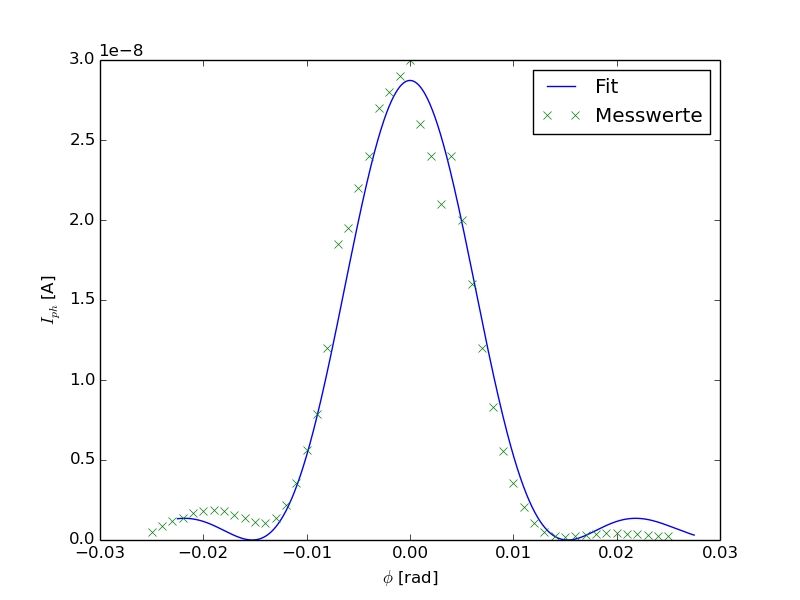
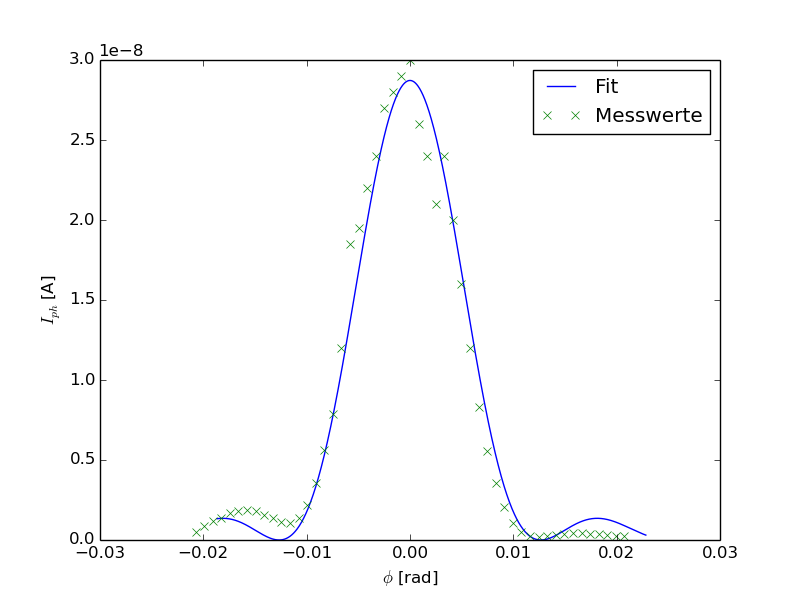
tabellen fehlen noch

diff --git a/protokoll406.tex b/protokoll406.tex
@@ -14,6 +14,7 @@
 \usepackage{selinput}
 \usepackage[separate-uncertainty=true]{siunitx}
 \usepackage{booktabs}
+
 \sisetup{}
 \SelectInputMappings{%
 adieresis={ä},
@@ -81,11 +82,93 @@ Einzelspalt B & 3.8  &1.34e-4 &&\\
 Doppelspalt   & 4.6  & 1.63e-4&20.8&7.35e-4\\
 \bottomrule
 \end{tabular}
+\caption{Ergebnisse der Mikroskopischen Untersuchung}
 \end{table}
 
 
-\subsection{Beungungsmuster am Einzelspalt}
+\subsection{Beugungsmuster am Einzelspalt}
+
+Die an den Einzelspalten gemessenen Werte befinden sich in Tabelle 2. Von diesen Stromstärken muss noch der so genannte thermische Dunkelstrom 
+\[
+I_D = \SI{}{\nano\ampere}
+\]
+abgezogen werden. Um die Messwerte mit der Theorie vergleichen zu können, werden die gemessenen Strecken $x$ um die Position des 0. Maximums zentriert und in einen Winkel $\phi$ umgerechnet. Dabei gilt der Zusammenhang
+\[
+\varphi \approx \frac{x-x_0}{L}
+\] 
+Der Abstand zwischen Schirm und Beugungsebene beträgt
+\[
+L = \SI{}{\meter} \mathrm{.}
+\]
+Diese Winkel und die korrigierten Stromstärken befinden sich ebenfalls in Tabelle 2. Die Abbildungen \ref{plot0} und  \ref{plot1} zeigen den Photostrom in Abhängigkeit von $\varphi$.
+\begin{figure}[h]
+\centering
+\includegraphics[scale=0.8]{plot0.png}
+\caption{Beugungsmuster des Einzelspalts A ($b \approx \SI{}{\milli\meter}$)}
+\label{plot0}
+\end{figure}
+
+\begin{figure}[h]
+\centering
+\includegraphics[scale=0.8]{plot1.png}
+\caption{Beugungsmuster des Einzelspalts B ($b \approx \SI{}{\milli\meter}$)}
+\label{plot1}
+\end{figure}
+
+\noindent
+An diese Werte wird nun die Formel 
+\begin{equation}
+I(\varphi) = A_0^2b^2\operatorname{sinc}^2\left( \frac{b\cdot\sin{\varphi}}{\lambda}\right)
+\end{equation}
+Die Wellenlänge des verwendeten HeNe-Lasers beträgt
+\[
+\lambda = \SI{633}{\nano\meter}\rm.
+\] 
+Die nichtlineare Ausgleichsrechnung wurde mit \textsc{Python} durchgeführt. Für die Regressionsparameter $A_0$ und $b$ müssen dabei Startwerte angegeben werden. Für die Spaltbreite wurde dabei die im vorherigen Abschnitt mit dem Mikroskop gemessenen Werte verwendet. Der Amplitudenfaktor wurde aus dem Photostrom des 0. Maximums berechnet:
+\[
+A_0= \sqrt{\frac{I_{Max}}{b^2}}\rm.
+\] 
+Die Ergebnisse der Regression finden sich in Tabelle 3 und die Ausgleichsfunktionen sind in den Abbildungen zu finden.
 \subsection{Beugungsmuster am Doppelspalt}
+
+Die Berechnung des Photostroms $I_ph$ und des Beugungswinkels $\varphi$ wurden analog zum vorherigen Abschnitt durchgeführt. Die Ergebnisse befinden sich in Tabelle 4.
+\begin{table}[h]
+\centering
+\begin{tabular}{lSS}
+
+\toprule
+&$\frac{A_0}{\si{\nano\ampere\per\meter\squared}}$ &$\frac{g}{\si{\meter}}$\\
+\midrule
+Einzelspalt A & 1.9  &6.71e-5 \\
+Einzelspalt B & 3.8  &1.34e-4 \\
+\bottomrule
+\end{tabular}
+\caption{Regressionsergebnisse der Einzelspalte}
+\end{table}
+ Abbildung \ref{plot3} zeigt den Photostrom in Abhängigkeit von $\varphi$ 
+\begin{figure}[h]
+\centering
+\includegraphics[scale=0.8]{plot2.png}
+\caption{Beugungsmuster des Doppelspalts ($b \approx \SI{}{\milli\meter}$ und $g\approx \SI{}{\milli\meter} $)}
+\label{plot0}
+\end{figure} 
+An diese Messwerte soll die Theoriefunktion
+\begin{equation}
+I(\varphi) = 4 \cdot A_0^2\cdot b^2\cos^2\left(\frac{\pi\cdot g \cdot \sin \varphi}{\lambda}\right)\cdot \operatorname{sinc}^2\left( \frac{b\cdot\sin{\varphi}}{\lambda}\right) 
+\end{equation}
+angepasst. Analog zum Vorgehen beim Einzelspalt werde als Startwerte für die Regressionsparameter $g$ und $b$ die mikroskopisch bestimmten Messergebnisse verwendet. Für den Amplitudenfaktor gilt:
+\[
+A_0 = \sqrt{\frac{I_{Max}}{4\cdot b^2}}\rm.
+\]
+Die Ergebnisse der Regression befinden sich in Tabelle 5. Um einen Vergleich zwischen Beugung am Einzel und am Doppelspalt zu ermöglichen zeigt Abbildung \ref{plot3} beide Beugungsmuster. Die Amplituden sind dabei jeweils auf das 0. Maximum normalisiert. 
+\begin{figure}[htp]
+\centering
+\includegraphics[scale=0.8]{/home/martin/Dokumente/SS14/Praktikum/V406/plot4.png}
+\caption{Vergleich zwischen Beugung am Doppelspalt und Beugung am Einzelspalt mit näherungsweise gleicher Spaltbreite $b$.}
+\label{plot3}
+\end{figure}
+
+\subsection{}
 \section{Diskussion}
 
 \section{Quellen}

diff --git a/einzelspalt.py b/einzelspalt.py
@@ -3,7 +3,7 @@ import matplotlib.pyplot as plt
 from scipy.optimize import curve_fit
 from copy import *
 thermal_current = 9e-12 # Thermischer Dunkelstrom
-distance  = 1  # Abstand Gitter - Photodiode
+distance  = 1.205  # Abstand Gitter - Photodiode
 
 
 #Auswertung der Mikroskopischen UNtersuchung
@@ -60,7 +60,7 @@ for filename in ['dataA','dataB','dataC']:
         A = np.sqrt(max_intensity/(4*b[i]**2))
         params , cov = curve_fit(fit_2,angle ,intensity, (A,b[i],g))
         theo_intensity = fit_2(phi,params[0],params[1],params[2])
-        plt.close()
+    plt.close()
     plt.plot(phi,theo_intensity, label ="Fit")
     print params       
 
